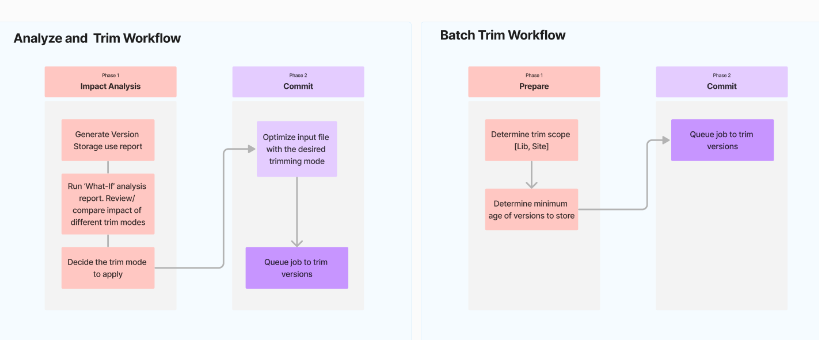
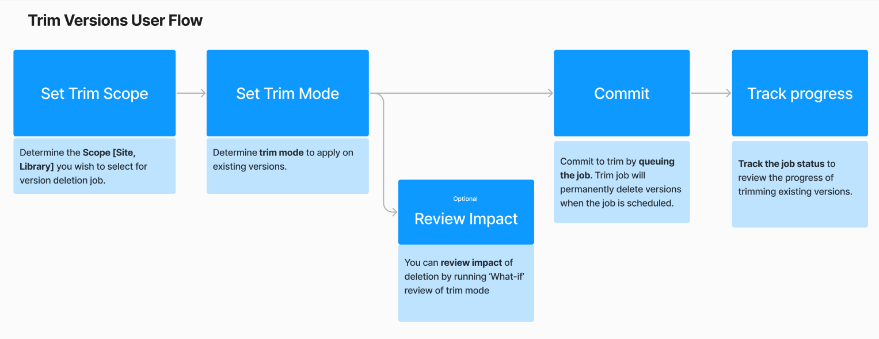
Updated

diff --git a/SharePoint/SharePointOnline/how-version-history-settings-work.md b/SharePoint/SharePointOnline/how-version-history-settings-work.md
@@ -28,8 +28,8 @@ The following table summarizes the various ways of managing **Version history li
 
 | Area | How does it work? |
 |:-----|:-----|
-| **Set Default **Version history limits** for new document libraries created in your organization** | Default Organization **Version history limits** is set on all new document libraries created across existing and new SPO sites. |
-| **Set Site or Library Level **Version history limits** | If needed, Site Admins can break inheritance from the default Organization limits for an individual Site or Library. |
+| **Set Default Version history limits for new document libraries created in your organization** | Default Organization **Version history limits** is set on all new document libraries created across existing and new SPO sites. |
+| **Set Site or Library Level Version history limits** | If needed, Site Admins can break inheritance from the default Organization limits for an individual Site or Library. |
 | **Report on Version Storage on a site** | Run a report to analyze version storage use of existing versions, understand how a version limit works before configuring limits or analyze the impact of trimming existing versions prior to scheduling trim job. |
 | **Trim Existing Versions** | Site Admins can choose to trim existing version history storage by running ‘What-If’ reports to understand the impact and then scheduling a timer job to execute the trimming. |
 
@@ -60,7 +60,7 @@ For more information on setting types of Version history limits, see [Planning V
 Organization-level version settings define the default version storage limits set on all new document libraries created across all existing or newly created SharePoint sites allowing you to set global default **Version history limits** across your organization.  
 
 > [!IMPORTANT]
-> When organizational-level version settings are updated, the new settings will be updated to all new document libraries (Base Type = 1). However, it will not update the history limits on the existing document libraries or result in the trimming of existing versions to meet the new limits. You'll need to take additional steps to [[update the settings on existing libraries on a site](#setting-version-history-limits-for-a-site)] or to [[trim existing versions](#trimming-existing-versions-from-sites-or-libraries)].
+> When organizational-level version settings are updated, the new settings will be updated to all new document libraries (Base Type = 1). However, it will not update the history limits on the existing document libraries or result in the trimming of existing versions to meet the new limits. You'll need to take additional steps to [update the settings on existing libraries on a site](#setting-version-history-limits-for-a-site) or to [trim existing versions](#trimming-existing-versions-from-sites-or-libraries).
 
 Take an example of Contoso with an existing Marketing site with a set of libraries set to 500 major version limits. When the admin updates the organization version limits to ‘Automatic’ library, version limits for document libraries will be set in the following ways:
 
@@ -94,7 +94,7 @@ Take an example of Contoso where organizational version limits are set to Automa
 > [!IMPORTANT]
 >
 > - Setting site-level **Version history limits** is available using PowerShell cmdlets only.
-> - Updating the Site-level settings of existing document libraries of the site **will not** trim existing versions to meet the newly set limits. Additional steps will need to be taken to trim existing versions.
+> - Updating the Site-level settings of existing document libraries of the site **will not** trim existing versions to meet the newly set limits. Additional steps will need to be taken to [trim existing versions](#trim-existing-versions-from-sites-or-libraries).
 > - Requests to update limits on existing libraries are processed asynchronously. If a new request is issued but the old one isn't yet completed yet, it returns the message "Set-PnPSite: Can't start to set version policy for document libraries on the site because it's already in progress. Wait for it to finish or cancel it."
 > - MinorVersions count only applies to the document libraries that enabled minor versioning.
 
@@ -135,18 +135,32 @@ SharePoint supports two ways to trim existing versions on a site or library. Use
 
 | **Use Case** | **Recommended approach** | **Description** |
 |:-----|:-----|:-----|
-| Review impact before scheduling version trim job.<br> <br> Compare different trimming modes for desired savings and acceptable impact. | Analyze and Trim (2-Step Trimming Workflow)  | The 2-step trim workflow allows you to assess the impact of version trimming prior to scheduling the trim job. <br> <br> You'll be able to generate a version storage use report, compare the storage savings and user impact of different trimming modes like Manual Count or Expiration limits, Automatic or other custom trimming logic, apply a desired trimming mode on the report and finally queue the job to trim versions. <br> <br> **Trimming Modes supported:** <br> <br> <li> Manual Expiration <br> <li> Manual Count <br> <li> Automatic <br> <li> Custom  |
-| Trim versions without analyzing impact. | Batch Trim (1-Step Trimming Workflow) |Batch trim workflow allows you purge versions older than specified period. Use the 1-step trim workflow only if you're comfortable with directly applying the trimming and don't need to review impact before committing to the trim job. <br> <br> **Trimming Modes supported:** <br> <br> <li> Manual Expiration |
+| Review impact before scheduling version trim job.<br> <br> Compare different trimming modes for desired savings and acceptable impact. | Analyze and Trim  | The 2-step trim workflow allows you to assess the impact of version trimming prior to scheduling the trim job. <br> <br> You'll be able to generate a version storage use report, compare the storage savings and user impact of different trimming modes like Manual Count or Expiration limits, Automatic or other custom trimming logic, apply a desired trimming mode on the report and finally queue the job to trim versions. <br> <br> |
+| Trim versions without analyzing impact. | Directly queue the trim job |Skip the impact analysis step by and queue the job to trim existing versions. Use this workflow only if you are comfortable with directly applying the trimming and do not need to review impact before committing to the trim job. |
 
 :::image type="content" source="media/version-history/trimming-workflows.png" alt-text="trimming workflows":::
 
 The following sections describe the different trimming methods:  
 
-### Analyze and trim (2-step version trimming method)
+### Queue Trim Job
 
-Trimming existing versions is performed in the following sequence of steps:  
+The version trimming workflow uses a job to asynchronously delete versions matching the criteria specified in the trim mode. To queue a trim job you need to follow these steps:
 
-**Step 1: Generate a Version Storage Use report for a Site or Library** to create an input file needed for scheduling the version trim job. This report can also be applied to gain key insights on the impact of applying different trimming settings. For trimming workflow, this report serves the purpose of an input file needed to schedule version trim job.
+1. **Set Trim Scope:** Determine the **Scope [Site, Library]** for version deletion. You can delete old file versions for all document libraries in a site or for a specific document library.
+
+1. **Set Trim Mode:** Determine the **Trim Mode** you wish to apply for trimming file versions within the specified scope.
+
+1. **Review Impact:** Before committing to trim existing versions, you have the option to review the impact of the purge action by running a ‘What-if’ analysis operation of the selected trim mode on the specified scope.
+
+1. **Queue Trim Job:** Once you are ready to commit to the trim, you can queue the job to asynchronously delete versions matching the trim mode criteria.
+
+1. **Track progress:** You will be able to monitor the progress of committed trim jobs to keep track of the deletion progress.  
+
+### Review impact by running What-if’ Analysis
+
+Before committing to trim existing versions, you can review the impact of the purge action by running a ‘What-if’ analysis operation.  Running a ‘What-if’ operation will follow these steps:  
+
+**Step 1: Generate a Version Storage Use report for a Site or Library** This report can support multiple uses including version storage use analytics or to gain key insights on the impact of applying different trimming settings.
 
 **Step 2: Run ‘What-If’ analysis** to preview the changes and analyze the user and storage savings impact of applying one of the trimming modes to the version storage report csv file.  
 
@@ -154,50 +168,31 @@ Trimming existing versions is performed in the following sequence of steps:
 > - You need to be a Site Administrator of the site to generate reports and trim versions from document libraries in a site.
 > - Depending on the size of the Site or Library, the job can take a few days to complete. Check the progress of the job until the status shows "completed".
 
-**Step 3: Set the desired trimming mode and Schedule a job** to trim versions for your Sites or Libraries.
-
-### Batch trim older versions (1-step trimming method)
-
-The 1-step batch trim method skips the analysis phase allowing you to directly schedule a trim job to delete versions matching the specified criteria. This trimming workflow only supports the ‘Manual Expiration’ trim mode that allows you to store versions created within a specified period by scheduling a job to asynchronously delete versions older than the specified number of days.
-
-Here's the sequence of steps for this method:
-
-1. **Prepare to trim:** Determine the desired scope for version deletion - You can delete old file versions for all document libraries in a site or for a specific document library.  Determine the minimum age (in days) for the file versions you want to delete. For example, on May 1, 2023, if you choose to delete file versions that are at least 30 days old, then the versions snapshotted before April 1, 2023 (your target date), will be deleted.
-
-1. **Schedule batch delete of Versions:** Schedule a job to asynchronously delete versions older than the specified number of days.
-
-The following are the known limitations.
-
-- The API doesn't delete versions created in the last 30 days. This means your input to the API can't be less than 30 days.
-
-- The API always deletes all versions that were created before January 1, 2023. If you want to trim versions, you can't keep any older than that. This means the value you use for the `DeleteBeforeDays` parameter should result in date after January 1, 2023.
-
 ### Trim Modes
 
 Version trimming workflows allow you to select and apply one of the trimming modes for scheduling a trim job on a site or library.
 
 - **Manual Expiration:** The manual expiration mode sets the target expiration date on matching versions with the specified value.
-    - With the 2-step trim workflow, the ‘TargetExpirationDate’ of matching versions is set to the specified value.
-    - With the 1-step trim workflow, the trim job is scheduled to delete matching versions.
 
 :::image type="content" source="media/version-history/manual-expiration-trim-table.png" alt-text="manual expiration":::
+
+    - The following are the known limitations.
+    
+    a. The API doesn't delete versions created in the last 30 days. This means your input to the API can't be less than 30 days.
+    
+    a. The API always deletes all versions that were created before January 1, 2023. If you want to trim versions, you can't keep any older than that. This means the value you use for the `DeleteBeforeDays` parameter should result in date after January 1, 2023.
 
 - **Manual Count Limit:** The manual count limit trim mode sets the target expiration date on oldest versions exceeding specified count limit to be deleted right away.
 
 :::image type="content" source="media/version-history/manual-count-limit-trim-table.png" alt-text="manual count limit":::
 
-- **Automatic:** The automatic trim mode sets the target expiration date based on the Automatic logic.
-
-- **Custom:** The 2-step trim mode allows you to update the target expiration date by manually editing the report file and scheduling the trim job.
-
-## Learn More
+### Learn More
 
 For more information, check out the following resources:
 
 - [Tutorial: Generate and Analyze Version Usage Report for SharePoint Site](#tutorial-generate-and-analyze-version-usage-report-for-sharepoint-site/sharePoint/sharePointOnline/tutorial-version-history.md)
 - [Tutorial: Run ‘What-If’ analysis on Version Storage Report File](#tutorial-run-what-if-analysis-on-version-storage-report-file/sharePoint/sharePointOnline/tutorial-version-history.md)
-- [Tutorial: Perform a 2-Step Trim by analyzing impact & scheduling trim](#tutorial-perform-a-2-step-trim-by-analyzing-impact--scheduling-trim/sharePoint/sharePointOnline/tutorial-version-history.md)
-- [Tutorial: Perform a 1-Step trim by scheduling batch trim job](#tutorial-perform-a-1-step-trim-by-scheduling-batch-trim-job/sharePoint/sharePointOnline/tutorial-version-history.md)
+- [Tutorial: Queue Job to Trim Versions](#tutorial-perform-a-2-step-trim-by-analyzing-impact--scheduling-trim/sharePoint/sharePointOnline/tutorial-version-history.md)
 
 ## Auditing Versioning Events
 
@@ -207,3 +202,19 @@ Audit events are available on the Microsoft Purview compliance portal to help yo
 - Changes made to Site version history limits.
 - Changes made to Library version history limits.
 - User deletes versions from the version history of a file.
+
+## Version Storage Behavior
+
+Version storage on SharePoint Sites is determined by several factors including version history limits applied on the library, user deletion activity, site’s read only status content subject to retention policies/labels or marked as a record.
+
+The following table enumerates the scenarios and the expected version storage behavior:
+
+| **Scenario:** |**Version Trimming Behavior** |
+|:-----|:-----|
+| User deletes versions from the version history of a file. | When a user deletes a version from the version history of a file the deleted version is moved to the site's recycle bin and can be recovered for a period. For more information, see [Restore items in the recycle bin that were deleted from SharePoint or Teams](/office/restore-items-in-the-recycle-bin-that-were-deleted-from-sharepoint-or-teams-6df466b6-55f2-4898-8d6e-c0dff851a0be) |
+| Versions exceed settings applied on the document library. | When versions exceed the limits set at the library, versions matching the criteria are marked for permanent deletion. This version deletion workflow will bypass the normal recycle bin and the deleted versions cannot be recovered from recycle bin.|
+| Timer job scheduled to trim existing versions on a library or site. | Versions deleted using scheduled jobs will be permanently deleted. This version deletion workflow will bypass the normal recycle bin and deleted versions cannot be recovered from recycle bin.|
+| Version storage on sites that are Read Only (locked sites) or items that are subject to retention policy or an on eDiscovery hold. | For items that are subject to a retention policy (or an eDiscovery hold), the versioning limits for the document library are ignored until the retention period of the document is reached (or the eDiscovery hold is released). Trimming of expired versions on Sites that are under retention or are on hold is suspended till the site is unlocked. For more information, see [How retention works with document versions](/purview/retention-policies-sharepoint) |
+| Versions deletion on items with retention labels applied. | Versioning limits are honored on items with retention labels when the content isn't subject to a retention policy (or an eDiscovery hold). Versions matching the limit criteria are automatically deleted to accommodate new versions, but users are still prevented from deleting versions. |
+| Version deletion on items marked as records. | Version deletion on documents marked as records is blocked. For more information, see [Use record versioning in SharePoint or OneDrive | Microsoft Learn](/purview/record-versioning) |
+
